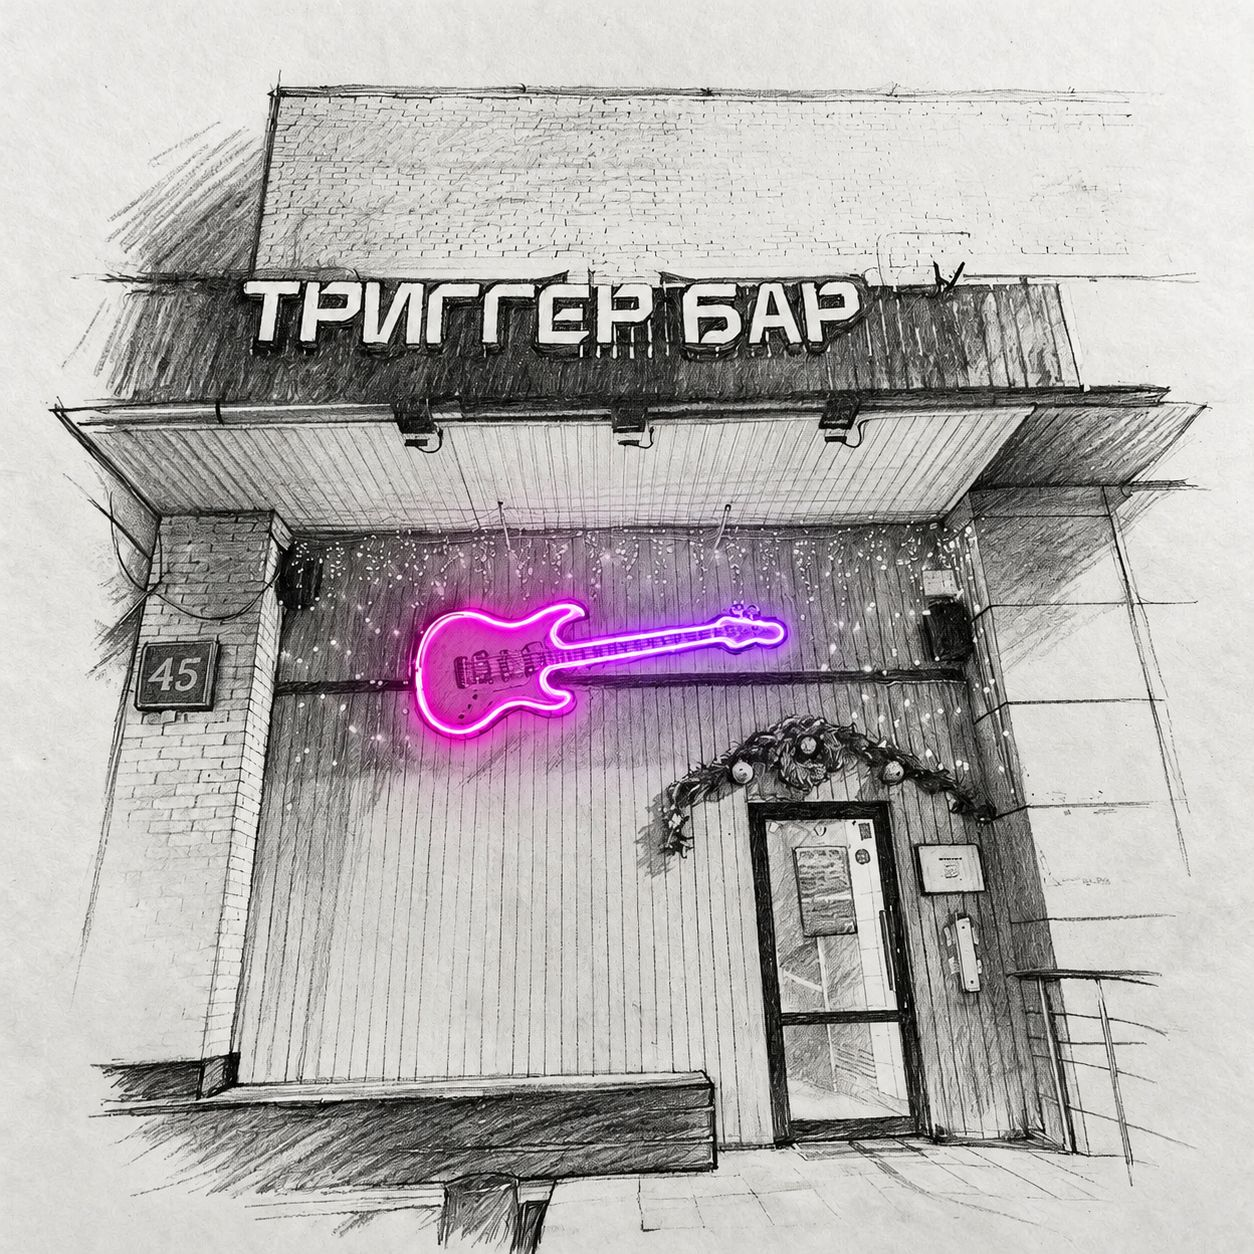
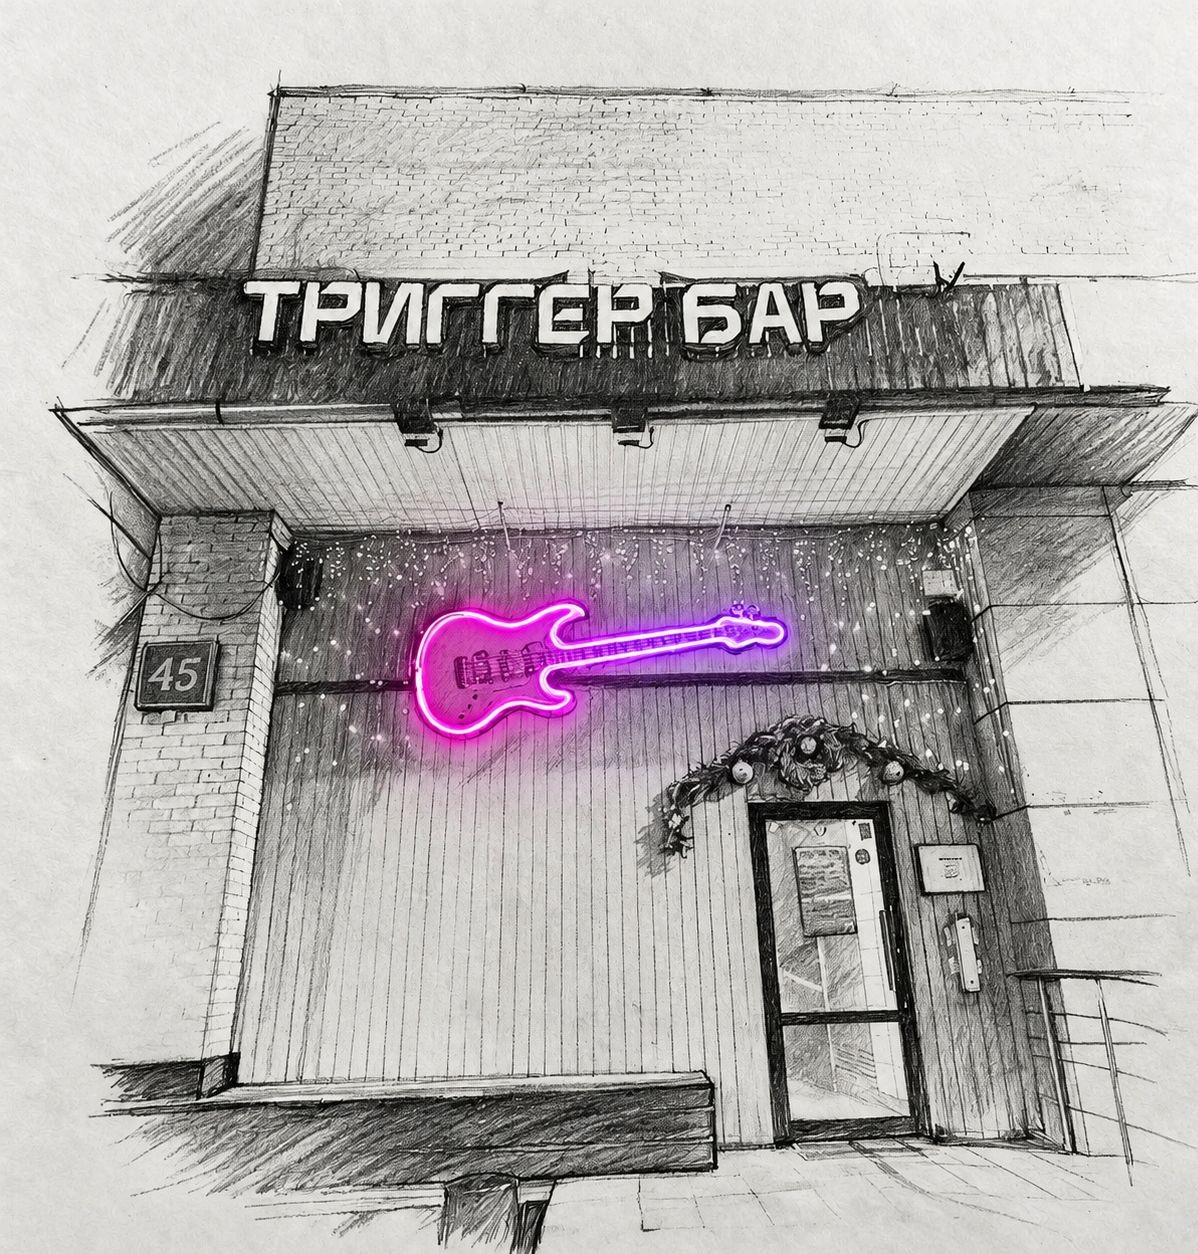
Recenter hero image, center About row on mobile, add missing promo items
- Hero sign: source photo had the sign off-center in its own square
  frame; cropped it and tuned object-position so "ТРИГГЕР БАР" is
  centered on both desktop (full-width, no horizontal crop) and
  mobile (cropped, where object-position actually matters).
- About "Атмосфера рока" row: on mobile the split layout kept the
  rock-hand icon inline with the heading, pushing the centered text
  off-center. Stack it below the text and shrink it to 32px so it
  no longer competes with the centering.
- Menu promo bar was missing two real items from the client's menu
  (шот за крышку, гренки за банку пива 3л) — added them.

Claude-Session: https://claude.ai/code/session_01WZpnxoFZR6xRiGAb4bRFBC

diff --git a/trigger/site/index.html b/trigger/site/index.html
@@ -9,7 +9,7 @@
 <link rel="preconnect" href="https://fonts.googleapis.com">
 <link rel="preconnect" href="https://fonts.gstatic.com" crossorigin>
 <link href="https://fonts.googleapis.com/css2?family=Rubik:wght@400;500;600;700;800&family=Rubik+Distressed&display=swap" rel="stylesheet">
-<link rel="stylesheet" href="assets/style.css?v=55">
+<link rel="stylesheet" href="assets/style.css?v=57">
 <style>
   /* ---------- hero (картинка на весь экран, без текста) ---------- */
   .hero{
@@ -21,8 +21,8 @@
     will-change:transform;
   }
   .hero__bg{
-    width:100%; height:100%; object-fit:cover; object-position:50% 10%;
-    transform-origin:52% 30%;
+    width:100%; height:100%; object-fit:cover; object-position:42% 10%;
+    transform-origin:50% 10%;
     opacity:0;
     animation:
       heroFadeIn 1.6s ease-out forwards,
@@ -139,6 +139,8 @@
     .about__row__art img, .about__row--reverse .about__row__art img{ max-width:320px; transform:none; }
     .about__row__text{ padding-inline:0; }
     .about__row__text p{ margin-inline:auto; }
+    .about__row__text--split{ flex-direction:column; gap:10px; }
+    .about__row__icon{ height:32px; }
     .about__founder{ text-align:center; margin-top:70px; }
   }
 
@@ -312,7 +314,7 @@
 
 <section class="hero" id="top">
   <div class="hero__bg-wrap">
-    <img class="hero__bg" src="assets/hero-sign.jpg" alt="Фасад Триггер Бар с вывеской">
+    <img class="hero__bg" src="assets/hero-sign.jpg?v=2" alt="Фасад Триггер Бар с вывеской">
   </div>
   <div class="hero__scrim"></div>
   <a href="#intro" class="hero__scroll"><i></i></a>

diff --git a/trigger/site/menu.html b/trigger/site/menu.html
@@ -9,7 +9,7 @@
 <link rel="preconnect" href="https://fonts.googleapis.com">
 <link rel="preconnect" href="https://fonts.gstatic.com" crossorigin>
 <link href="https://fonts.googleapis.com/css2?family=Rubik:wght@400;500;600;700;800&family=Rubik+Distressed&display=swap" rel="stylesheet">
-<link rel="stylesheet" href="assets/style.css?v=55">
+<link rel="stylesheet" href="assets/style.css?v=57">
 <style>
   .menu-hero{
     position:relative; z-index:1; padding:170px 0 110px; overflow:hidden; text-align:center;
@@ -174,6 +174,8 @@
       <li>Отзыв на 2ГИС −5%</li>
       <li>Имениннику −10%</li>
       <li>Стакан воды — бесплатно</li>
+      <li>Шот за крышку</li>
+      <li>Гренки за банку пива 3 л</li>
     </ul>
   </div>
   <small>* скидки по акциям не суммируются</small>

diff --git a/trigger/site/privacy.html b/trigger/site/privacy.html
@@ -9,7 +9,7 @@
 <link rel="preconnect" href="https://fonts.googleapis.com">
 <link rel="preconnect" href="https://fonts.gstatic.com" crossorigin>
 <link href="https://fonts.googleapis.com/css2?family=Rubik:wght@400;500;600;700;800&family=Rubik+Distressed&display=swap" rel="stylesheet">
-<link rel="stylesheet" href="assets/style.css?v=55">
+<link rel="stylesheet" href="assets/style.css?v=57">
 <style>
   .legal{ padding:150px 0 100px; }
   .legal__head{ max-width:720px; margin-bottom:56px; }
